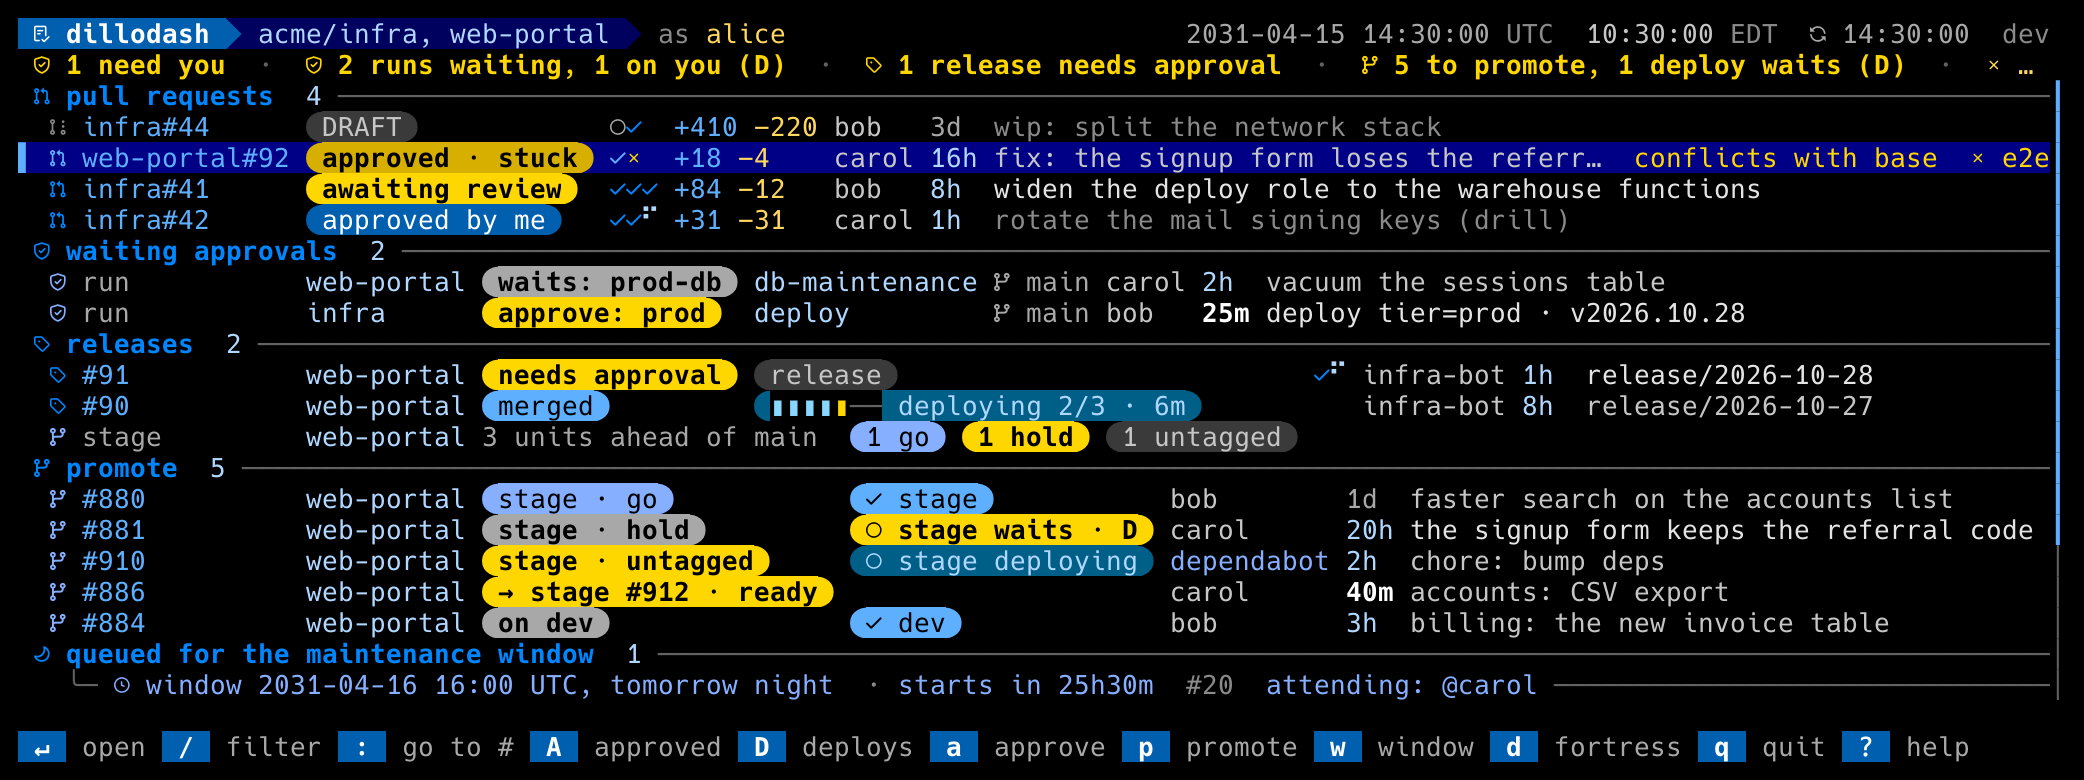
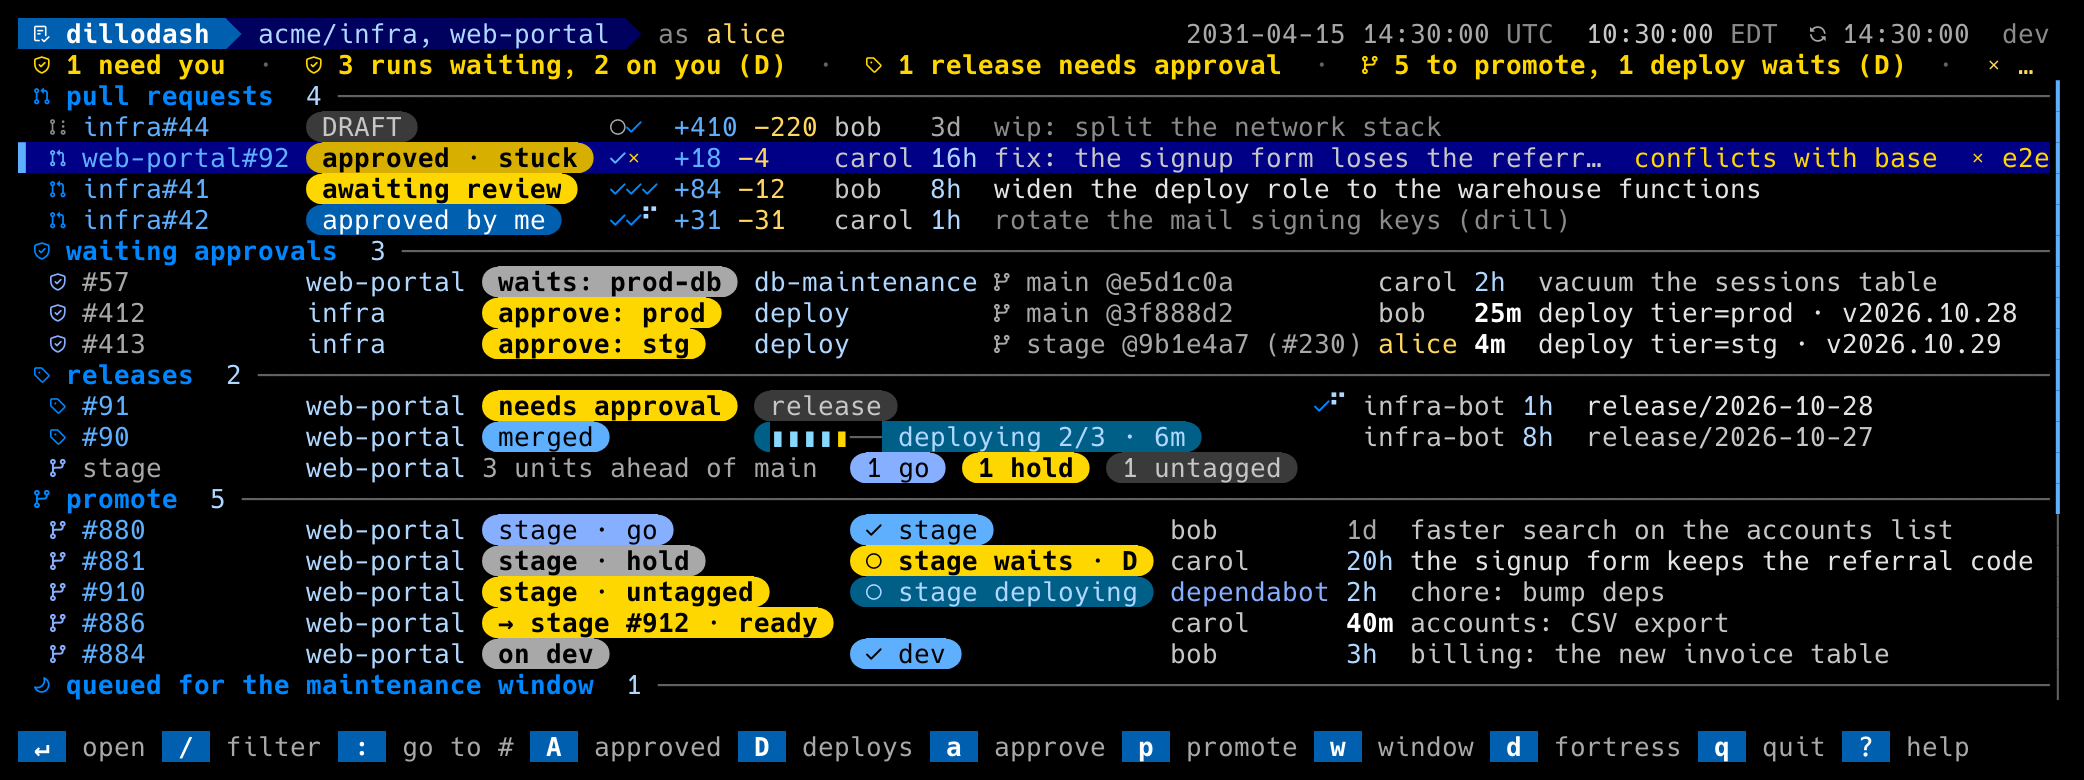
waiting runs: identify each run on its row
The number column shows the run number as the Actions page shows it
(#412), and the branch column the trigger: branch, short head SHA and
the PR GitHub lists for the run (stage @9b1e4a7 (#230)). Enter's notice
carries the run's URL; the filter matches the run number and id. The
demo fixture adds a second waiting run of the same workflow, and the
gallery is regenerated.

Closes #65

diff --git a/internal/workflow/waitingruns/workflow.go b/internal/workflow/waitingruns/workflow.go
@@ -94,6 +94,31 @@ func (it *Item) where() string {
 	return fmt.Sprintf("%s %s run %d", it.Repo.Name, text.Ellip(it.Name(), 40), it.Run.ID)
 }
 
+// Num is the run's number as the Actions page shows it ("#412"), else
+// "run" when GitHub gave none.
+func (it *Item) Num() string {
+	if it.Run.RunNumber > 0 {
+		return fmt.Sprintf("#%d", it.Run.RunNumber)
+	}
+	return "run"
+}
+
+// Trigger is what the run ran on: "stage @3f888d2 (#230)" — the branch,
+// the short head SHA, and the PR when GitHub lists one.
+func (it *Item) Trigger() string {
+	var parts []string
+	if it.Run.HeadBranch != "" {
+		parts = append(parts, it.Run.HeadBranch)
+	}
+	if sha := it.Run.HeadSHA; sha != "" {
+		parts = append(parts, "@"+sha[:min(7, len(sha))])
+	}
+	if len(it.Run.PullRequests) > 0 && it.Run.PullRequests[0].Number > 0 {
+		parts = append(parts, fmt.Sprintf("(#%d)", it.Run.PullRequests[0].Number))
+	}
+	return strings.Join(parts, " ")
+}
+
 // State is one refresh's waiting runs, oldest first, and the warnings
 // the refresh met.
 type State struct {
@@ -388,8 +413,8 @@ func (w *Workflow) SearchText(row workflow.Row) string {
 }
 
 func searchParts(it *Item) []string {
-	return append([]string{"waiting run", it.Repo.String(), it.Name(), it.Run.DisplayTitle, it.Run.HeadBranch,
-		it.Run.Actor.Login, fmt.Sprint(it.Run.ID)}, it.Envs()...)
+	return append([]string{"waiting run", it.Repo.String(), it.Name(), it.Run.DisplayTitle, it.Trigger(),
+		it.Run.Actor.Login, fmt.Sprint(it.Run.ID), it.Num()}, it.Envs()...)
 }
 
 func matches(parts, terms []string) bool {
@@ -430,22 +455,21 @@ func (w *Workflow) RowKinds() map[string]workflow.RowKind {
 				if !ok {
 					return ""
 				}
-				if it.Run.HTMLURL != "" {
-					return it.Run.HTMLURL
-				}
-				host := ""
-				if cfg := app.Config(); cfg != nil {
-					host = cfg.GitHub.Host
-				}
-				return ghapi.RunURL(host, it.Repo, it.Run.ID)
+				return runURL(app, it)
 			},
 			Open: func(app workflow.App, row workflow.Row) bool {
 				it, ok := row.Item.(*Item)
 				if !ok {
 					return false
 				}
-				app.Notice(it.where() + " is an Actions run, not a PR — o opens it on GitHub; D approves it")
+				app.Notice(it.where() + " is an Actions run, not a PR — " + runURL(app, it) + " — o opens it; D approves it")
 				return true
+			},
+			NumText: func(row workflow.Row) string {
+				if it, ok := row.Item.(*Item); ok {
+					return it.Num()
+				}
+				return "run"
 			},
 			Title: func(row workflow.Row) string {
 				if it, ok := row.Item.(*Item); ok {
@@ -455,6 +479,18 @@ func (w *Workflow) RowKinds() map[string]workflow.RowKind {
 			},
 		},
 	}
+}
+
+// runURL is the run's page: GitHub's html_url, else built from its id.
+func runURL(app workflow.App, it *Item) string {
+	if it.Run.HTMLURL != "" {
+		return it.Run.HTMLURL
+	}
+	host := ""
+	if cfg := app.Config(); cfg != nil {
+		host = cfg.GitHub.Host
+	}
+	return ghapi.RunURL(host, it.Repo, it.Run.ID)
 }
 
 // multi reports whether the rows name their repo.
@@ -471,10 +507,11 @@ func maxw(items []workflow.Row, f func(*Item) string, limit int) int {
 }
 
 func branchText(it *Item) string {
-	if it.Run.HeadBranch == "" {
+	t := it.Trigger()
+	if t == "" {
 		return ""
 	}
-	return glyphs.Ico("branch") + it.Run.HeadBranch
+	return glyphs.Ico("branch") + t
 }
 
 // chipSegs is a run's environment chips: "approve: <env>" (gold) for one
@@ -510,7 +547,7 @@ func (w *Workflow) layout(app workflow.App, items []workflow.Row, width, numW, r
 	cols := workflow.Layout{
 		"chips":    min(48, chipsW),
 		"workflow": maxw(items, (*Item).Name, 24),
-		"branch":   maxw(items, branchText, 20),
+		"branch":   maxw(items, branchText, 32),
 		"actor":    maxw(items, func(it *Item) string { return text.OrQ(it.Run.Actor.Login) }, 14),
 		"age":      3,
 	}
@@ -559,7 +596,7 @@ func (w *Workflow) segs(app workflow.App, row workflow.Row, L workflow.Layout, w
 	// the icon cell stays when the glyph set has no shield (ascii), so
 	// the row lines up with the PR rows' columns
 	segs := []text.Seg{text.S(text.Pad(glyphs.G("shield"), 1)+" ", "icon.queued")}
-	segs = append(segs, text.S(text.Pad("run", L["num"])+" ", "num.issue"))
+	segs = append(segs, text.S(text.Pad(text.Ellip(it.Num(), L["num"]), L["num"])+" ", "num.issue"))
 	if rw, ok := L["repo"]; ok {
 		segs = append(segs, text.S(text.Pad(text.Ellip(it.Repo.Name, rw), rw)+" ", "stack"))
 	}

diff --git a/cmd/screenshot/shots.go b/cmd/screenshot/shots.go
@@ -22,8 +22,8 @@ type shot struct {
 
 // The fixture's list, top to bottom (the cursor starts on the first
 // row): infra#44 (draft), web-portal#92, infra#41 (plan digests),
-// infra#42, the waiting runs web-portal 7102 (waits on the dba team) and
-// infra 7101 (waits on you), the releases web-portal#91 and #90 (in
+// infra#42, the waiting runs web-portal 7102 (waits on the dba team),
+// infra 7101 and infra 7103 (two runs of one workflow, both on you), the releases web-portal#91 and #90 (in
 // flight), the stage line, the window night with its manifest infra#20
 // and the queued infra#43, then the issues web-portal#19, infra#17,
 // infra#18. Expect pins each script to what it means to show, so a new
@@ -41,17 +41,17 @@ var shots = []shot{
 	{Name: "goto", Steps: []string{":", "91"}},
 	{Name: "terraform-approve", Steps: []string{"j", "j", "enter"}, Expect: []string{"infra#41", "plans"}},
 	{Name: "terraform-approve-menu", Steps: []string{"j", "j", "enter", "a"}, Expect: []string{"for which plan"}},
-	{Name: "approve-menu", Steps: []string{"j", "j", "j", "j", "j", "j", "enter", "a"}, Expect: []string{"web-portal#91", "release NOW"}},
-	{Name: "release-now-prompt", Steps: []string{"j", "j", "j", "j", "j", "j", "enter", "a", "2", "the referral fix is holding up signups"}, Expect: []string{"web-portal#91", "/release-now"}},
-	{Name: "release-rail", Steps: []string{"j", "j", "j", "j", "j", "j", "j"}, Expect: []string{"deploying 2/3"}},
-	{Name: "release-card", Steps: []string{"j", "j", "j", "j", "j", "j", "j", "enter"}, Expect: []string{"web-portal#90", "T+"}},
-	{Name: "release-launch", Steps: []string{"j", "j", "j", "j", "j", "j", "j"},
+	{Name: "approve-menu", Steps: []string{"j", "j", "j", "j", "j", "j", "j", "enter", "a"}, Expect: []string{"web-portal#91", "release NOW"}},
+	{Name: "release-now-prompt", Steps: []string{"j", "j", "j", "j", "j", "j", "j", "enter", "a", "2", "the referral fix is holding up signups"}, Expect: []string{"web-portal#91", "/release-now"}},
+	{Name: "release-rail", Steps: []string{"j", "j", "j", "j", "j", "j", "j", "j"}, Expect: []string{"deploying 2/3"}},
+	{Name: "release-card", Steps: []string{"j", "j", "j", "j", "j", "j", "j", "j", "enter"}, Expect: []string{"web-portal#90", "T+"}},
+	{Name: "release-launch", Steps: []string{"j", "j", "j", "j", "j", "j", "j", "j"},
 		Opts: ui.SnapshotOptions{Motion: true, Clock: 100, Fx: []ui.FxStart{{Name: "launch", Secs: fx.LaunchSecs, Elapsed: 3.1}}}},
-	{Name: "release-launch-burst", Steps: []string{"j", "j", "j", "j", "j", "j", "j"},
+	{Name: "release-launch-burst", Steps: []string{"j", "j", "j", "j", "j", "j", "j", "j"},
 		Opts: ui.SnapshotOptions{Motion: true, Clock: 100, Fx: []ui.FxStart{{Name: "launch", Secs: fx.LaunchSecs, Elapsed: 2.05}}}},
 	{Name: "waiting-runs", Steps: []string{"j", "j", "j", "j", "j"}, Expect: []string{"waiting approvals", "approve: prod"}},
-	{Name: "promote", Steps: []string{"j", "j", "j", "j", "j", "j", "j", "j", "j"}, Expect: []string{"promote", "stage · go", "→ stage #912 · ready"}},
-	{Name: "promote-tag", Steps: []string{"j", "j", "j", "j", "j", "j", "j", "j", "j", "j", "j", "p"}, Expect: []string{"#910 on stage", "go/910"}},
+	{Name: "promote", Steps: []string{"j", "j", "j", "j", "j", "j", "j", "j", "j", "j"}, Expect: []string{"promote", "stage · go", "→ stage #912 · ready"}},
+	{Name: "promote-tag", Steps: []string{"j", "j", "j", "j", "j", "j", "j", "j", "j", "j", "j", "j", "p"}, Expect: []string{"#910 on stage", "go/910"}},
 	{Name: "waiting-runs-approve", Steps: []string{"j", "j", "j", "j", "j", "D"}, Expect: []string{"approve 1 deployment of infra deploy run 7101"}},
 	{Name: "window-card", Steps: []string{"G", "k", "k", "k", "enter"}, Expect: []string{"infra#43", "staging/15-canary"}},
 	{Name: "fortress", Steps: []string{"d"}, Expect: []string{"Manhattan"}},
@@ -87,7 +87,7 @@ var shots = []shot{
 var (
 	heroScripts = [][]string{
 		{"j"},
-		{"j", "j", "j", "j", "j", "enter"},
+		{"j", "j", "j", "j", "j", "j", "enter"},
 	}
 	heroExpect = "web-portal#91"
 )

diff --git a/internal/workflow/waitingruns/workflow_test.go b/internal/workflow/waitingruns/workflow_test.go
@@ -412,6 +412,7 @@ func TestRowURLOpenAndFilter(t *testing.T) {
 	w, app := newWF(t)
 	r := run(4242, "deploy", "s1", time.Minute)
 	r.Actor.Login = "carol"
+	r.RunNumber = 318
 	app.Fake.RepoRuns = map[model.Repo][]model.WorkflowRun{infra: {r}, etl: {run(5151, "backfill", "s2", time.Hour)}}
 	app.Fake.Pending = map[int64][]model.PendingDeployment{4242: {pending("prod", 55, true)}, 5151: {pending("staging", 77, false)}}
 	if _, err := refresh(t, w, app); err != nil {
@@ -427,7 +428,7 @@ func TestRowURLOpenAndFilter(t *testing.T) {
 	if u := rk.URL(app, rows[2]); u != "https://github.com/acme/infra/actions/runs/4242" {
 		t.Errorf("built URL = %q", u)
 	}
-	if !rk.Open(app, rows[2]) || app.Last() != "notice: infra deploy run 4242 is an Actions run, not a PR — o opens it on GitHub; D approves it" {
+	if !rk.Open(app, rows[2]) || app.Last() != "notice: infra deploy run 4242 is an Actions run, not a PR — https://github.com/acme/infra/actions/runs/4242 — o opens it; D approves it" {
 		t.Errorf("open: %q", app.Last())
 	}
 	if rk.Title(rows[2]) != "deploy from main" {
@@ -435,7 +436,7 @@ func TestRowURLOpenAndFilter(t *testing.T) {
 	}
 	for terms, want := range map[string][]int64{
 		"carol": {4242}, "staging": {5151}, "etl": {5151}, "deploy prod": {4242}, "backfill from": {5151},
-		"waiting": {5151, 4242}, "nothing": nil,
+		"waiting": {5151, 4242}, "nothing": nil, "#318": {4242}, "4242": {4242},
 	} {
 		if got := ids(w.Sections(app, strings.Fields(terms), "alice")); !reflect.DeepEqual(got, want) {
 			t.Errorf("filter %q: %v, want %v", terms, got, want)
@@ -696,5 +697,48 @@ func TestAnnounceNewRunOnYou(t *testing.T) {
 	w.ApplyPoll(app, patch)
 	if app.Last() != before {
 		t.Errorf("said twice: %q", app.Last())
+	}
+}
+
+// TestRunIdentity: two waiting runs of one workflow differ on the row
+// alone: the run number (as the Actions page shows it) in the number
+// column, and the branch, short SHA and PR they ran on.
+func TestRunIdentity(t *testing.T) {
+	w, app := newWF(t)
+	a := run(4242, "deploy", "3f888d2c0ffee", time.Hour)
+	a.RunNumber = 412
+	b := run(4243, "deploy", "9b1e4a7d00d1e", time.Minute)
+	b.RunNumber, b.HeadBranch, b.Event = 413, "stage", "push"
+	b.PullRequests = []model.RunPR{{Number: 230}}
+	app.Fake.RepoRuns = map[model.Repo][]model.WorkflowRun{infra: {b, a}}
+	app.Fake.Pending = map[int64][]model.PendingDeployment{4242: {pending("prod", 55, true)}, 4243: {pending("stg", 56, true)}}
+	if _, err := refresh(t, w, app); err != nil {
+		t.Fatal(err)
+	}
+	rows := w.Sections(app, nil, "alice")
+	rk := w.RowKinds()[RowRun]
+	lines := render(app, w, rows, 160)
+	first, second := text.SegsText(lines[0]), text.SegsText(lines[1])
+	for _, c := range []struct {
+		line string
+		want []string
+	}{
+		{first, []string{"#412", "main @3f888d2"}},
+		{second, []string{"#413", "stage @9b1e4a7 (#230)"}},
+	} {
+		for _, want := range c.want {
+			if !strings.Contains(c.line, want) {
+				t.Errorf("row lacks %q: %q", want, c.line)
+			}
+		}
+	}
+	if rk.NumText(rows[1]) != "#412" || rk.NumText(rows[2]) != "#413" {
+		t.Errorf("number column: %q %q", rk.NumText(rows[1]), rk.NumText(rows[2]))
+	}
+	// no run number from GitHub: the column says what the row is
+	it := rows[1].Item.(*Item)
+	it.Run.RunNumber, it.Run.HeadSHA, it.Run.PullRequests = 0, "", nil
+	if it.Num() != "run" || it.Trigger() != "main" {
+		t.Errorf("bare run: %q %q", it.Num(), it.Trigger())
 	}
 }

diff --git a/internal/demo/demo.go b/internal/demo/demo.go
@@ -165,15 +165,22 @@ func pending(env string, mine bool, reviewers ...string) model.PendingDeployment
 // that waits on the database team.
 func waitingRuns(gh *fake.Client) {
 	infra, portal := Repos[0], Repos[1]
-	deploy := model.WorkflowRun{ID: 7101, Name: "deploy", Path: ".github/workflows/deploy.yml", Status: "waiting", Event: "workflow_dispatch",
-		DisplayTitle: "deploy tier=prod · v2026.10.28", HeadBranch: "main", Actor: actor("bob"), RunAttempt: 1,
+	deploy := model.WorkflowRun{ID: 7101, RunNumber: 412, Name: "deploy", Path: ".github/workflows/deploy.yml", Status: "waiting", Event: "workflow_dispatch",
+		DisplayTitle: "deploy tier=prod · v2026.10.28", HeadBranch: "main", HeadSHA: "3f888d2c0ffee", Actor: actor("bob"), RunAttempt: 1,
 		HTMLURL: "https://github.com/acme/infra/actions/runs/7101", CreatedAt: at(25 * time.Minute), UpdatedAt: at(24 * time.Minute)}
-	vacuum := model.WorkflowRun{ID: 7102, Name: "db-maintenance", Path: ".github/workflows/db-maintenance.yml", Status: "waiting", Event: "workflow_dispatch",
-		DisplayTitle: "vacuum the sessions table", HeadBranch: "main", Actor: actor("carol"), RunAttempt: 1,
+	// a second run of the same workflow, from a merge to stage: the run
+	// number and the trigger tell the two rows apart
+	deploy2 := model.WorkflowRun{ID: 7103, RunNumber: 413, Name: "deploy", Path: ".github/workflows/deploy.yml", Status: "waiting", Event: "push",
+		DisplayTitle: "deploy tier=stg · v2026.10.29", HeadBranch: "stage", HeadSHA: "9b1e4a7d00d1e", Actor: actor("alice"), RunAttempt: 1,
+		PullRequests: []model.RunPR{{Number: 230}},
+		HTMLURL:      "https://github.com/acme/infra/actions/runs/7103", CreatedAt: at(4 * time.Minute), UpdatedAt: at(4 * time.Minute)}
+	vacuum := model.WorkflowRun{ID: 7102, RunNumber: 57, Name: "db-maintenance", Path: ".github/workflows/db-maintenance.yml", Status: "waiting", Event: "workflow_dispatch",
+		DisplayTitle: "vacuum the sessions table", HeadBranch: "main", HeadSHA: "e5d1c0a77b2f4", Actor: actor("carol"), RunAttempt: 1,
 		HTMLURL: "https://github.com/acme/web-portal/actions/runs/7102", CreatedAt: at(2 * time.Hour), UpdatedAt: at(2 * time.Hour)}
-	gh.RepoRuns = map[model.Repo][]model.WorkflowRun{infra: {deploy}, portal: {vacuum}}
+	gh.RepoRuns = map[model.Repo][]model.WorkflowRun{infra: {deploy2, deploy}, portal: {vacuum}}
 	gh.Pending = map[int64][]model.PendingDeployment{
 		7101: {pending("prod", true, "alice", "team:sre")},
+		7103: {pending("stg", true, "alice", "team:sre")},
 		7102: {pending("prod-db", false, "team:dba")},
 	}
 }

diff --git a/internal/ui/waiting_runs_test.go b/internal/ui/waiting_runs_test.go
@@ -25,7 +25,7 @@ func TestDOnAWaitingRun(t *testing.T) {
 		t.Fatal(err)
 	}
 	h.m.wf = set
-	run := model.WorkflowRun{ID: 4242, Name: "deploy", Status: "waiting", HeadSHA: strings.Repeat("d", 40), HeadBranch: "main",
+	run := model.WorkflowRun{ID: 4242, RunNumber: 17, Name: "deploy", Status: "waiting", HeadSHA: strings.Repeat("d", 40), HeadBranch: "main",
 		Event: "workflow_dispatch", DisplayTitle: "deploy web-portal to prod", Actor: model.Actor{Login: "bob"},
 		HTMLURL: "https://github.com/acme/infra/actions/runs/4242", CreatedAt: t0.Add(-time.Hour)}
 	var prod model.PendingDeployment
@@ -34,7 +34,7 @@ func TestDOnAWaitingRun(t *testing.T) {
 	h.gh.Pending = map[int64][]model.PendingDeployment{4242: {prod}}
 	h.load()
 	s := h.screen()
-	for _, want := range []string{"waiting approvals  1", "  run  [approve: prod] deploy main bob ", "deploy web-portal to prod", " D  deploys ", "1 run waiting, 1 on you (D)"} {
+	for _, want := range []string{"waiting approvals  1", "  #17  [approve: prod] deploy main @ddddddd bob ", "deploy web-portal to prod", " D  deploys ", "1 run waiting, 1 on you (D)"} {
 		if !strings.Contains(s, want) {
 			t.Errorf("screen lacks %q:\n%s", want, s)
 		}

diff --git a/internal/model/model.go b/internal/model/model.go
@@ -343,7 +343,10 @@ type RateLimit struct {
 
 // WorkflowRun is the subset of an Actions run the dashboard reads.
 type WorkflowRun struct {
-	ID         int64     `json:"id"`
+	ID int64 `json:"id"`
+	// RunNumber is the run's number in its workflow, the "#N" the
+	// Actions page shows (the ID is the number in the run's URL).
+	RunNumber  int       `json:"run_number"`
 	Name       string    `json:"name"`
 	Path       string    `json:"path"`
 	HeadSHA    string    `json:"head_sha"`
@@ -363,6 +366,14 @@ type WorkflowRun struct {
 	// the pusher of a push. A re-run keeps it (GitHub's triggering_actor
 	// names who re-ran it; the dashboard does not read that one).
 	Actor Actor `json:"actor"`
+	// PullRequests is the PRs whose head the run ran on, as GitHub lists
+	// them (a pull_request run; usually empty for a push or a dispatch).
+	PullRequests []RunPR `json:"pull_requests"`
+}
+
+// RunPR is a PR a workflow run lists: its number is all the rows use.
+type RunPR struct {
+	Number int `json:"number"`
 }
 
 // WorkflowJob is one job of an Actions run with its steps, as

diff --git a/CONTRIBUTING.md b/CONTRIBUTING.md
@@ -74,8 +74,9 @@ public for good.
 
 `go run . --demo` opens the dashboard on the fixture without touching
 GitHub. All four workflows are on: a release is in flight (the rail and
-the mission-control card), a PR is queued for tonight's window, and two
-Actions runs wait on an environment, one of them on you. `go run ./cmd/screenshot` renders the same fixture
+the mission-control card), a PR is queued for tonight's window, and three
+Actions runs wait on an environment, two of them (one workflow, told
+apart by run number and trigger) on you. `go run ./cmd/screenshot` renders the same fixture
 offline with the embedded font and the theme's colors: `docs/screenshot.png`
 (the README's picture) and the gallery in `docs/shots/`, one PNG per shot
 in `cmd/screenshot/shots.go`; `-only name,…` renders a few. Regenerate
